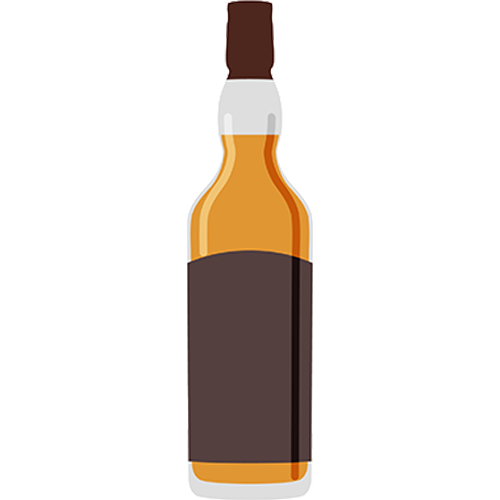
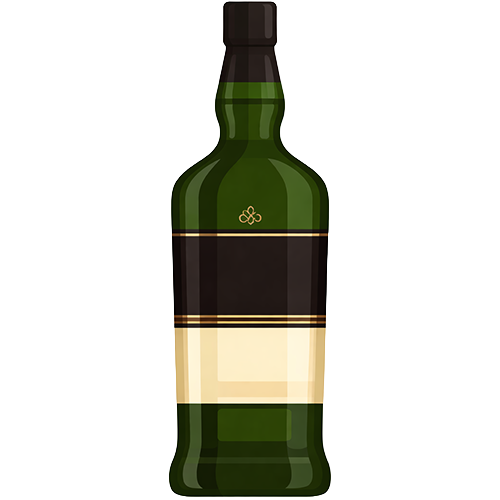
updated images

Changed region(s): [[0.33, 0.0, 0.66, 1.0]]

diff --git a/pages/inventory.html b/pages/inventory.html
@@ -120,6 +120,13 @@
             </select>
           </div>
           <div class="form-group">
+            <label for="bottleCategory">Category (Subcategory)</label>
+            <select id="bottleCategory">
+              <option value="">None</option>
+            </select>
+            <small style="display: block; margin-top: 0.25rem; color: #999;">e.g. Reposado, Anejo for Tequila</small>
+          </div>
+          <div class="form-group">
             <label for="bottleStyle">Style/Type</label>
             <input type="text" id="bottleStyle" placeholder="e.g. Single Malt, Spiced, London Dry" />
           </div>
@@ -477,28 +484,79 @@
       }
     });
   
-    // Placeholder images based on spirit type
+    // Placeholder images based on spirit type or category
     const spiritPlaceholders = {
-      bourbon: 'assets/bottles/whiskey.png',
+      bourbon: 'assets/bottles/bourbon.png',
       whiskey: 'assets/bottles/whiskey.png',
-      rye: 'assets/bottles/whiskey.png',
+      rye: 'assets/bottles/rye.png',
       scotch: 'assets/bottles/scotch.png',
       rum: 'assets/bottles/rum.png',
       gin: 'assets/bottles/gin.png',
       vodka: 'assets/bottles/vodka.png',
-      tequila: 'assets/bottles/whiskey.png',
-      mezcal: 'assets/bottles/whiskey.png',
-      brandy: 'assets/bottles/whiskey.png',
-      cognac: 'assets/bottles/whiskey.png',
-      liqueur: 'assets/bottles/whiskey.png',
-      coffeeliqueur: 'assets/bottles/whiskey.png',
-      amaro: 'assets/bottles/whiskey.png',
-      vermouth: 'assets/bottles/whiskey.png',
-      bitters: 'assets/bottles/whiskey.png',
-      syrup: 'assets/bottles/whiskey.png',
-      foam: 'assets/bottles/whiskey.png',
-      cordial: 'assets/bottles/whiskey.png',
-      other: 'assets/bottles/whiskey.png'
+      tequila: 'assets/bottles/tequila.png',
+      blanco: 'assets/bottles/tequila.png',
+      reposado: 'assets/bottles/reposado.png',
+      anejo: 'assets/bottles/reposado.png',
+      mezcal: 'assets/bottles/mezcal.png',
+      brandy: 'assets/bottles/brandy.png',
+      cognac: 'assets/bottles/cognac.png',
+      liqueur: 'assets/bottles/liqueur.png',
+      coffeeliqueur: 'assets/bottles/coffeeliqueur.png',
+      amaro: 'assets/bottles/amaro.png',
+      vermouth: 'assets/bottles/vermouth.png',
+      bitters: 'assets/bottles/bitters.png',
+      syrup: 'assets/bottles/syrup.png',
+      foam: 'assets/bottles/foam.png',
+      cordial: 'assets/bottles/cordial.png',
+      other: 'assets/bottles/other.png'
+    };
+
+    // Category options for each base spirit
+    const spiritCategories = {
+      tequila: [
+        { value: 'blanco', label: 'Blanco (Silver)' },
+        { value: 'reposado', label: 'Reposado' },
+        { value: 'anejo', label: 'Anejo' }
+      ],
+      mezcal: [
+        { value: 'blanco', label: 'Blanco' },
+        { value: 'reposado', label: 'Reposado' },
+        { value: 'anejo', label: 'Anejo' }
+      ],
+      scotch: [
+        { value: 'single-malt', label: 'Single Malt' },
+        { value: 'blended-malt', label: 'Blended Malt' },
+        { value: 'blended', label: 'Blended' },
+        { value: 'single-grain', label: 'Single Grain' }
+      ],
+      rum: [
+        { value: 'light', label: 'Light/White' },
+        { value: 'gold', label: 'Gold/Amber' },
+        { value: 'dark', label: 'Dark' },
+        { value: 'spiced', label: 'Spiced' }
+      ],
+      brandy: [
+        { value: 'vs', label: 'VS (Very Special)' },
+        { value: 'vsop', label: 'VSOP (Very Superior Old Pale)' },
+        { value: 'xo', label: 'XO (Extra Old)' }
+      ],
+      whiskey: [
+        { value: 'blended', label: 'Blended' },
+        { value: 'single-malt', label: 'Single Malt' },
+        { value: 'bourbon', label: 'Bourbon' },
+        { value: 'rye', label: 'Rye' }
+      ],
+      gin: [
+        { value: 'london-dry', label: 'London Dry' },
+        { value: 'navy', label: 'Navy Strength' },
+        { value: 'old-tom', label: 'Old Tom' }
+      ],
+      liqueur: [
+        { value: 'amaro', label: 'Amaro' },
+        { value: 'herbal', label: 'Herbal' },
+        { value: 'fruit', label: 'Fruit' },
+        { value: 'cream', label: 'Cream' }
+      ]
     };
 
     // Load bottles from API
@@ -606,7 +664,9 @@
     
     emptyState.classList.add('is-hidden');
     bottleGrid.innerHTML = filtered.map(bottle => {
-      const placeholder = spiritPlaceholders[bottle.base_spirit?.toLowerCase()] || spiritPlaceholders.other;
+      // Use category icon if available, otherwise use base spirit icon
+      const iconKey = bottle.category?.toLowerCase() || bottle.base_spirit?.toLowerCase();
+      const placeholder = spiritPlaceholders[iconKey] || spiritPlaceholders.other;
       
       // Always use generic placeholder for card display, store uploaded image for popout
       const cardImageSrc = placeholder;
@@ -623,6 +683,7 @@
             <div class="bottle-meta">
               <p class="bottle-details">
                 <span class="bottle-spirit">${bottle.base_spirit || ''}</span>
+                ${bottle.category ? `<span class="bottle-category" style="margin-left: 0.5rem; opacity: 0.8;">(${bottle.category})</span>` : ''}
                 ${bottle.volume_ml ? `<span class="bottle-volume">${bottle.volume_ml}ml</span>` : ''}
               </p>
               ${bottle.location ? `<p class="bottle-location">📍 ${bottle.location}</p>` : ''}
@@ -640,6 +701,28 @@
     }).join('');
     }
 
+    // Update category dropdown based on selected base spirit
+    function updateCategoryDropdown() {
+      const baseSpiritSelect = document.getElementById('bottleBaseSpirit');
+      const categorySelect = document.getElementById('bottleCategory');
+      const selectedSpirit = baseSpiritSelect.value;
+      
+      // Clear existing options (except "None")
+      while (categorySelect.options.length > 1) {
+        categorySelect.remove(1);
+      }
+      
+      // Add options for the selected spirit
+      if (selectedSpirit && spiritCategories[selectedSpirit]) {
+        spiritCategories[selectedSpirit].forEach(cat => {
+          const option = document.createElement('option');
+          option.value = cat.value;
+          option.textContent = cat.label;
+          categorySelect.appendChild(option);
+        });
+      }
+    }
+
     // Open add modal
     function openAddModal() {
       console.log('🔵 openAddModal called');
@@ -647,6 +730,10 @@
       bottleModalTitle.textContent = 'Add Bottle';
       bottleForm.reset();
       document.getElementById('bottleId').value = '';
+      document.getElementById('bottleCategory').value = '';
+      
+      // Update category dropdown for blank spirit selection
+      updateCategoryDropdown();
       
       // Reset image state for new bottle
       selectedImageFile = null;
@@ -685,6 +772,10 @@
     document.getElementById('bottleUpc').value = bottle.upc || '';
       document.getElementById('bottleTags').value = Array.isArray(bottle.tags) ? bottle.tags.join(', ') : '';
       document.getElementById('bottleNotes').value = bottle.notes || '';
+      
+      // Update category dropdown and set the value
+      updateCategoryDropdown();
+      document.getElementById('bottleCategory').value = bottle.category || '';
       
       // Show image upload area when editing
       imageUploadGroup.style.display = 'block';
@@ -1086,6 +1177,7 @@
         brand: document.getElementById('bottleBrand').value.trim(),
         product_name: document.getElementById('bottleProduct').value.trim(),
         base_spirit: document.getElementById('bottleBaseSpirit').value,
+        category: document.getElementById('bottleCategory').value || null,
         style: document.getElementById('bottleStyle').value.trim() || null,
         abv: parseFloat(document.getElementById('bottleABV').value) || null,
         volume_ml: parseInt(document.getElementById('bottleVolume').value) || null,
@@ -1313,6 +1405,7 @@
     // Verify event listener was added
     console.log('🔵 Event listener added to button');
     document.getElementById('bottleModalCancel').addEventListener('click', closeBottleModal);
+    document.getElementById('bottleBaseSpirit').addEventListener('change', updateCategoryDropdown);
     bottleForm.addEventListener('submit', submitBottle);
     
     document.getElementById('deleteModalCancel').addEventListener('click', closeDeleteModal);

diff --git a/cf-inventory-api/src/worker.ts b/cf-inventory-api/src/worker.ts
@@ -222,13 +222,14 @@ async function handleCreateBottle(request: Request, env: Env, ownerId: string) {
   const id = crypto.randomUUID();
 
   const {
-    brand, product_name, base_spirit, style, abv, volume_ml, quantity = 1,
+    brand, product_name, base_spirit, style, category, abv, volume_ml, quantity = 1,
     status = 'sealed', purchase_date, price_cents, currency = 'USD', location, notes, image_url, upc, tags
   } = body || {};
 
   // Normalize undefined -> null for optional fields (D1 rejects undefined)
   const base = base_spirit ?? null;
   const styleVal = style ?? null;
+  const categoryVal = category ?? null;
   const abvVal = abv ?? null;
   const volVal = volume_ml ?? null;
   const statusVal = status ?? null;
@@ -248,10 +249,10 @@ async function handleCreateBottle(request: Request, env: Env, ownerId: string) {
     // Normalize owner_id to a stable value for future reads
     const normalizedOwnerId = ownerId.startsWith('owner:') ? 'owner:primary' : ownerId;
     const stmt = env.DB.prepare(`INSERT INTO bottles (
-      id, owner_id, brand, product_name, base_spirit, style, abv, volume_ml, quantity, status,
+      id, owner_id, brand, product_name, base_spirit, style, category, abv, volume_ml, quantity, status,
       purchase_date, price_cents, currency, location, notes, image_url, upc
-    ) VALUES (?, ?, ?, ?, ?, ?, ?, ?, ?, ?, ?, ?, ?, ?, ?, ?, ?)`)
-        .bind(id, normalizedOwnerId, brand, product_name, base, styleVal, abvVal, volVal, quantity, statusVal,
+    ) VALUES (?, ?, ?, ?, ?, ?, ?, ?, ?, ?, ?, ?, ?, ?, ?, ?, ?, ?)`)
+        .bind(id, normalizedOwnerId, brand, product_name, base, styleVal, categoryVal, abvVal, volVal, quantity, statusVal,
           purchaseVal, priceVal, currencyVal, locationVal, notesVal, imageVal, upcVal);
 
     await stmt.run();
@@ -293,7 +294,7 @@ async function handleUpdateBottle(request: Request, env: Env, id: string, ownerI
   }
 
   const fields = [
-    'brand','product_name','base_spirit','style','abv','volume_ml','quantity','status',
+    'brand','product_name','base_spirit','style','category','abv','volume_ml','quantity','status',
     'purchase_date','price_cents','currency','location','notes','image_url','upc'
   ] as const;
 

diff --git a/assets/css/site.css b/assets/css/site.css
@@ -953,7 +953,7 @@ input:checked + .toggle-slider:before {
 .bottle-grid.list-view {
   display: flex;
   flex-direction: column;
-  gap: 0.9rem;
+  gap: 0.5rem;
 }
 
 .bottle-card {
@@ -972,7 +972,7 @@ input:checked + .toggle-slider:before {
   gap: 1rem;
   align-items: center;
   text-align: left;
-  padding: 1rem 1.25rem;
+  padding: 0.75rem 1rem;
 }
 
 .bottle-info {

diff --git a/CATEGORY_IMPLEMENTATION.md b/CATEGORY_IMPLEMENTATION.md
@@ -1,0 +1,66 @@
+## Category System Implementation - Complete
+
+### Changes Made
+
+#### 1. Database Migration (0003_add_category.sql)
+- Added `category TEXT` column to bottles table
+- Added index on category for efficient queries
+- **Note**: You'll need to run this migration in your D1 database via wrangler
+
+#### 2. API Updates (worker.ts)
+- Updated `handleCreateBottle()` to accept and store `category` field
+- Updated `handleUpdateBottle()` fields array to include `category`
+- Category is now part of bottle CRUD operations
+
+#### 3. UI Form Updates (inventory.html)
+- Added category dropdown field in the form (between base_spirit and style)
+- Created `spiritCategories` object mapping base spirits to their subcategories:
+  - **Tequila**: Blanco (Silver), Reposado, Anejo
+  - **Mezcal**: Blanco, Reposado, Anejo
+  - **Rum**: Light/White, Gold/Amber, Dark, Spiced
+  - **Brandy**: VS, VSOP, XO
+  - **Whiskey**: Blended, Single Malt, Bourbon, Rye
+  - **Gin**: London Dry, Navy Strength, Old Tom
+  - **Liqueur**: Amaro, Herbal, Fruit, Cream
+
+#### 4. Form Behavior
+- `updateCategoryDropdown()` function updates available categories when base spirit changes
+- Event listener on base spirit select to trigger category dropdown update
+- Both Add and Edit modals populate category correctly
+- Form submission includes category in API payload
+
+#### 5. Icon Mapping
+- Updated `spiritPlaceholders` to include category icons (blanco, anejo, etc.)
+- Updated `renderBottles()` to prefer category icon over base spirit icon
+- Added category display in bottle card (e.g., "(reposado)" next to spirit)
+- Icon chain: category icon → base spirit icon → generic "other" icon
+
+---
+
+### Next Steps / To-Do
+
+1. **Icons**: Create `blanco.png` and `anejo.png` in `assets/bottles/` if you want distinct icons. For now, they'll use the tequila/reposado fallback.
+
+2. **Run Database Migration**: 
+   ```bash
+   wrangler d1 migrations apply DATABASE_BINDING
+   ```
+
+3. **Test the Feature**:
+   - Add a new Tequila bottle → category dropdown should show Blanco/Reposado/Anejo
+   - Edit an existing bottle → category should populate from API
+   - Verify correct icons display in grid
+   - Verify API saves category correctly
+
+4. **Future Enhancements**:
+   - Add more spirit categories as needed (add to `spiritCategories` object)
+   - Create custom icons for each category
+   - Add category filtering to the filter pills (optional)
+   - Consider expanding to other spirits (e.g., cognac → VS/VSOP/XO)
+
+---
+
+### File Changes Summary
+- **Created**: `cf-inventory-api/migrations/0003_add_category.sql`
+- **Modified**: `cf-inventory-api/src/worker.ts` (3 sections)
+- **Modified**: `pages/inventory.html` (form, JS logic, icon rendering)
